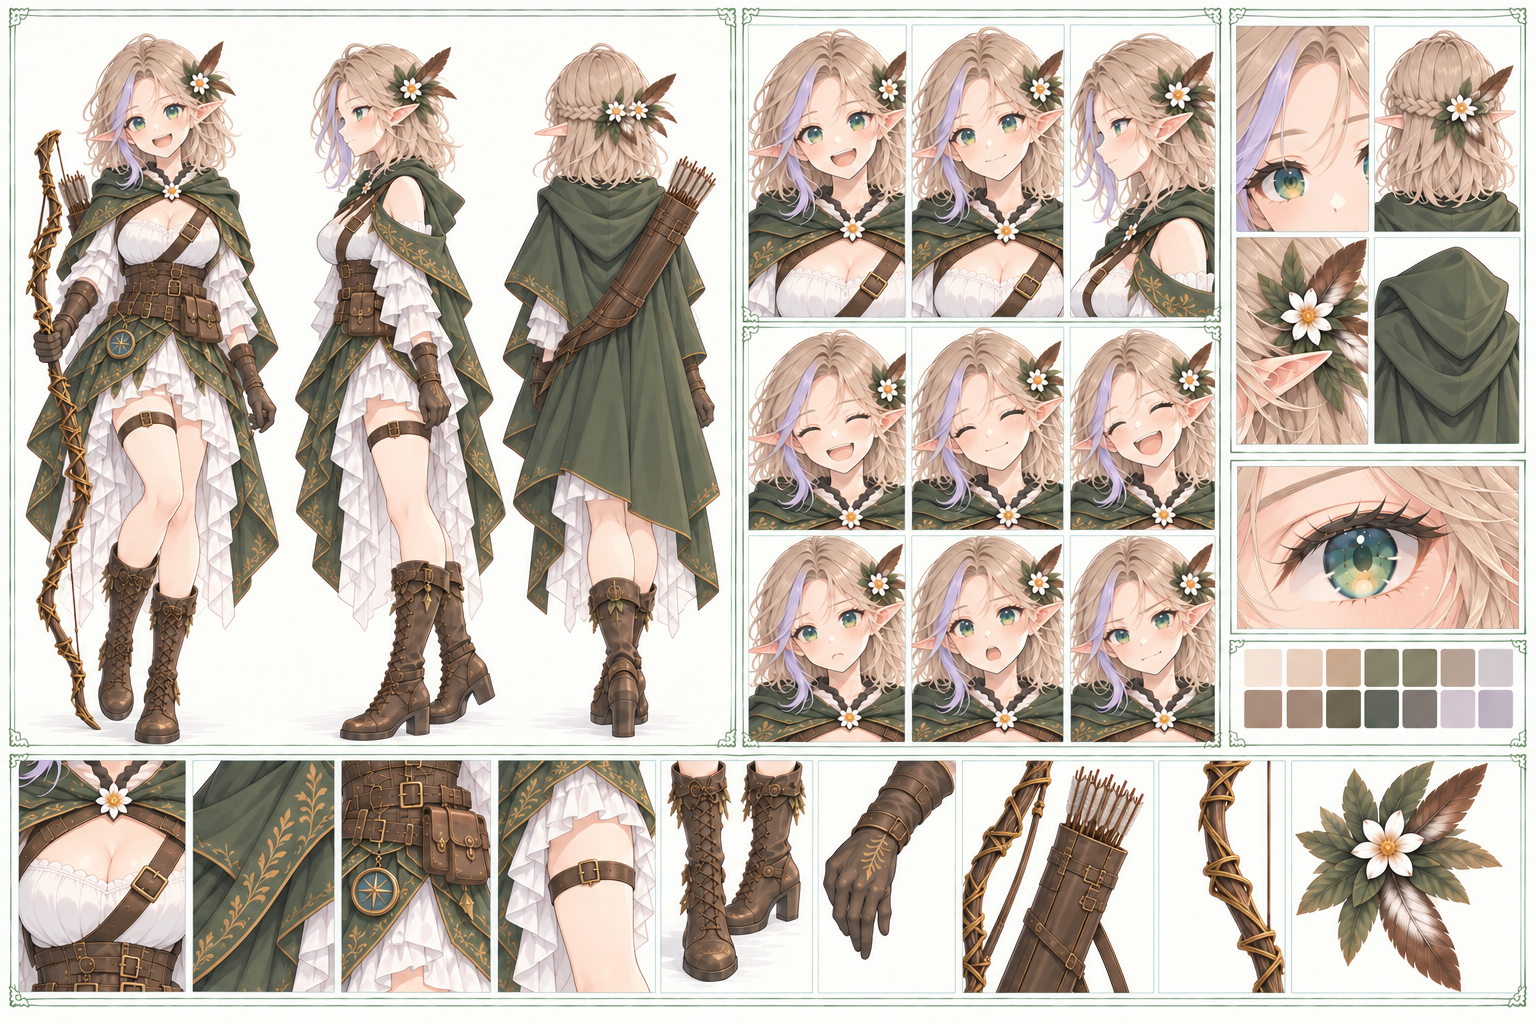
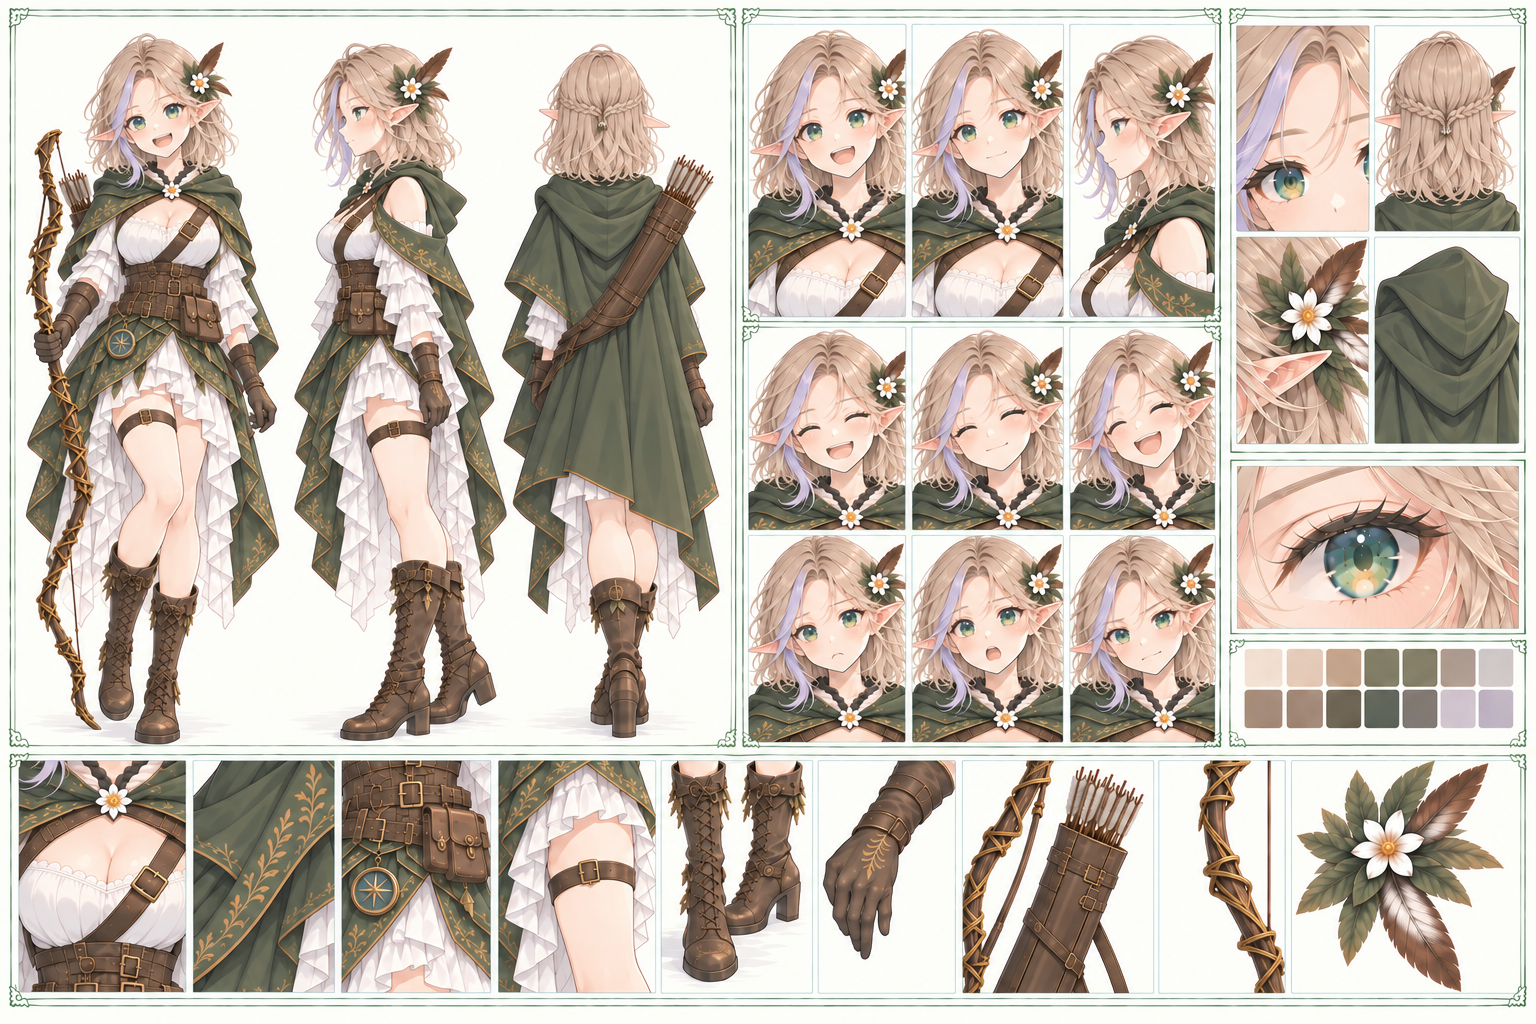
Reduce Aria rear braid to a small fine half-up style

diff --git a/docs/characters/aria.md b/docs/characters/aria.md
@@ -72,11 +72,11 @@
 
 GPT Imageで作成した外見・衣装・装備の制作参考。肩〜鎖骨丈で毛量を抑えた金髪、花飾りと反対側の淡い紫の一房、エルフの耳と緑の目、明るく親しみやすい顔、森を思わせるマントと軽装、弓・矢筒、白い花の髪飾りを主な方向性として扱う。
 
-編み込みは後頭部の小さなハーフアップに留め、正面からはほとんど見せない。頭頂やこめかみを囲む太い編み込みにはせず、前側は短い髪の自然な束を見せる。
+編み込みはごく少量の細い毛束を使い、後頭部中央で小さく短くまとめるハーフアップに留める。肩〜鎖骨丈の毛量に合わせ、両耳の間を太く横断する編み込みにはしない。正面からはほとんど見せず、頭頂やこめかみを囲む太い編み込みを加えない。前側は短い髪の自然な束を見せる。
 
 白いブラウスの襟ぐりは少し低く広く開き、鎖骨と胸元が自然に見える形にする。胸元の革ストラップは、本人の左肩から右腰へつながる一本とする。ブラウス上で逆向きに交差する細い革片や、接続先のないベルトの断片を加えない。髪は4-10のスチルを塗りの参考にし、白い光の筋と強い光沢を抑え、柔らかい色面と淡い光で描く。マントとフードの背面は無地の緑とし、金色の植物模様は前側の縁に留める。マント・ローブの縁や裾に、揺れる金属の吊り飾り・鎖・重りを付けない。
 
-2026-10-06に胸元の開き・吊り飾り・髪の塗りを揃えてシート全体を再生成した。[PNG原本](../../assets/source/characters/aria-reference-sheet.png)と画素が一致する可逆圧縮WebPを採用する。プロンプト・参照画像・検証は[再生成記録](../art-generation/aria-reference-open-neckline-20261006.json)を参照。
+2026-10-06に編み込みを縮小し、胸元の開き・吊り飾りの除去・髪の塗りを揃えてシート全体を再生成した。[PNG原本](../../assets/source/characters/aria-reference-sheet.png)と画素が一致する可逆圧縮WebPを採用する。プロンプト・参照画像・検証は[再生成記録](../art-generation/aria-reference-small-braid-20261006.json)を参照。
 
 シート内に自動生成された年齢・身長・職業・台詞などの文字情報は、確定設定として扱わない。人物設定の正本は本ファイルと関連資料を優先する。
 
